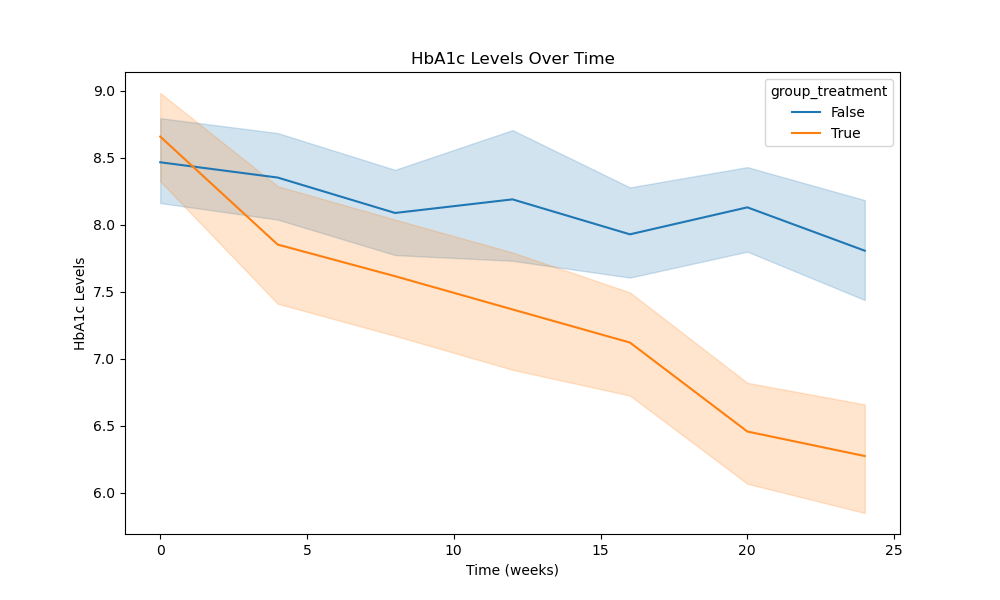
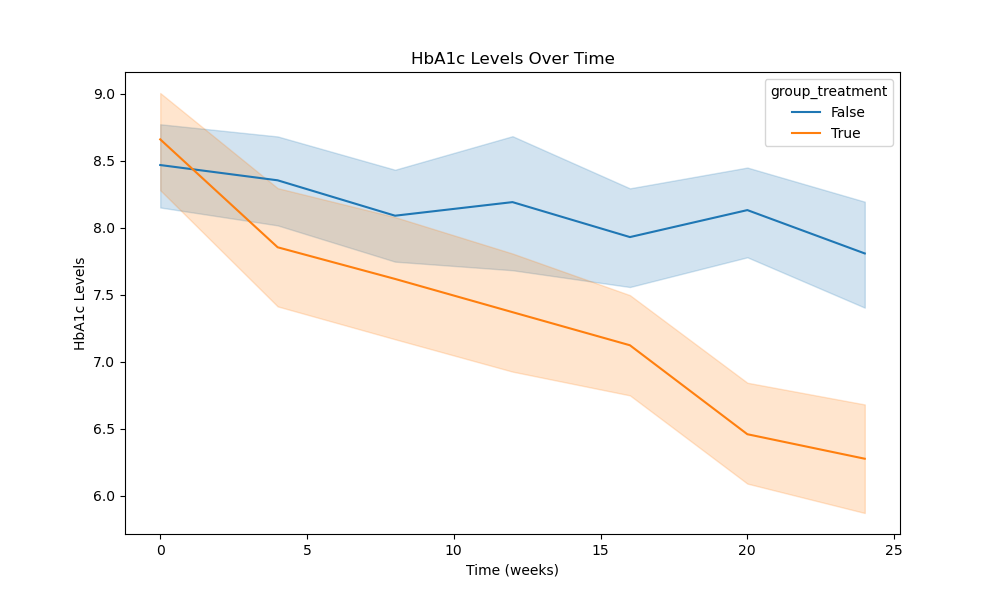
Excution of notebook added saved plots

diff --git a/README.md b/README.md
@@ -30,7 +30,6 @@ The request was to conduct a comprehensive analysis of PharmaTech's clinical tri
 
 - The dataset was provided by ITOnlinelearning.com 
 - The dataset has 9 columns and 1400 rows
-- The were no missing columns observed in the dataset 
 - The **hba1c** column (feature) is central to the analysis  
 - The "adverse_event" feature had over 80% null values and was dropped.
 
